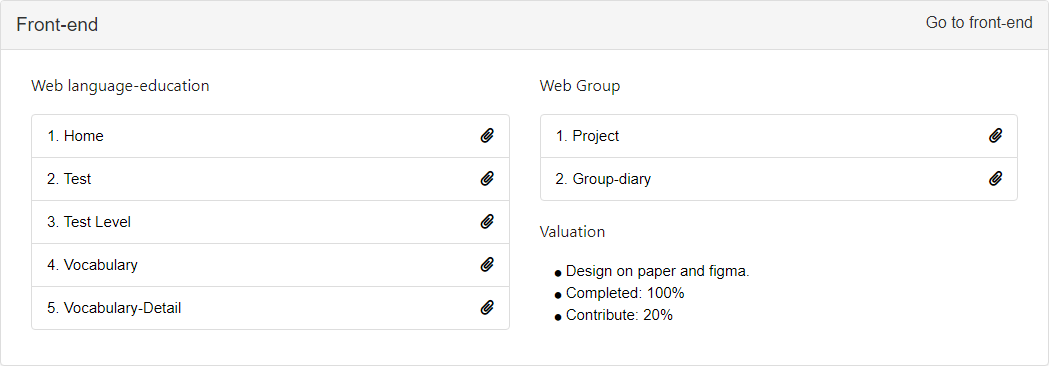
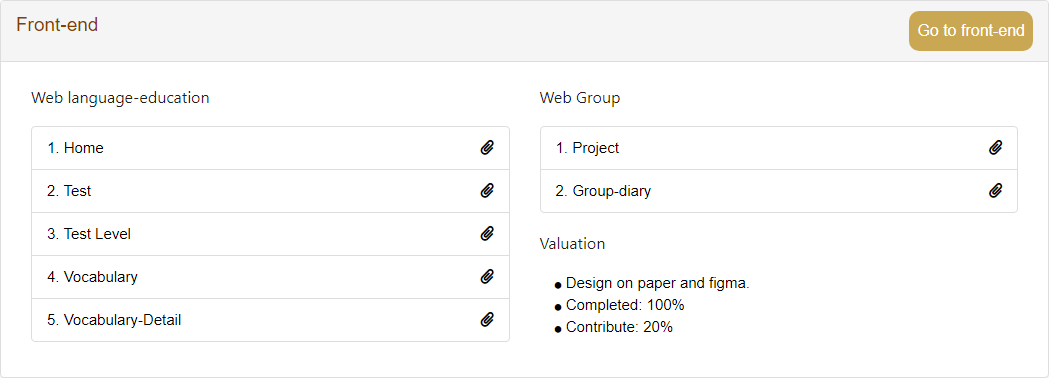
up

diff --git a/lab5.html b/lab5.html
@@ -139,13 +139,12 @@
                         </div>
                         <div class="panel-group" id="accordion" style="margin-top: 30px">
                             <div class="panel panel-default">
-                                <div class="panel-heading">
+                                <div class="panel-heading" style="height: 60px">
                                     <div class="panel-title">
                                         <a data-toggle="collapse" data-parent="#accordion" href="#collapse1"
                                            style="font-size: 19px">
                                             Front-end</a>
-                                        <a href="https://languageeducation.tk/" target="_blank"
-                                           style="float: right">Go to front-end </a>
+                                        <a class="goto" href="https://languageeducation.tk/" target="_blank">Go to front-end </a>
 
                                     </div>
 

diff --git a/stylecss/lab_bai5.css b/stylecss/lab_bai5.css
@@ -220,3 +220,13 @@ body{
 #containts .contact #Implement .imple .dow1 {
     margin-left: 400px;
 }
+#Implement .imple .panel-title .goto{
+    float: right;
+    background: #caa853;
+    padding: 8px;
+    border-radius: 10px;
+    color: white;
+}
+#Implement .imple .panel-title .goto:hover{
+    background: #ca8409;
+}
